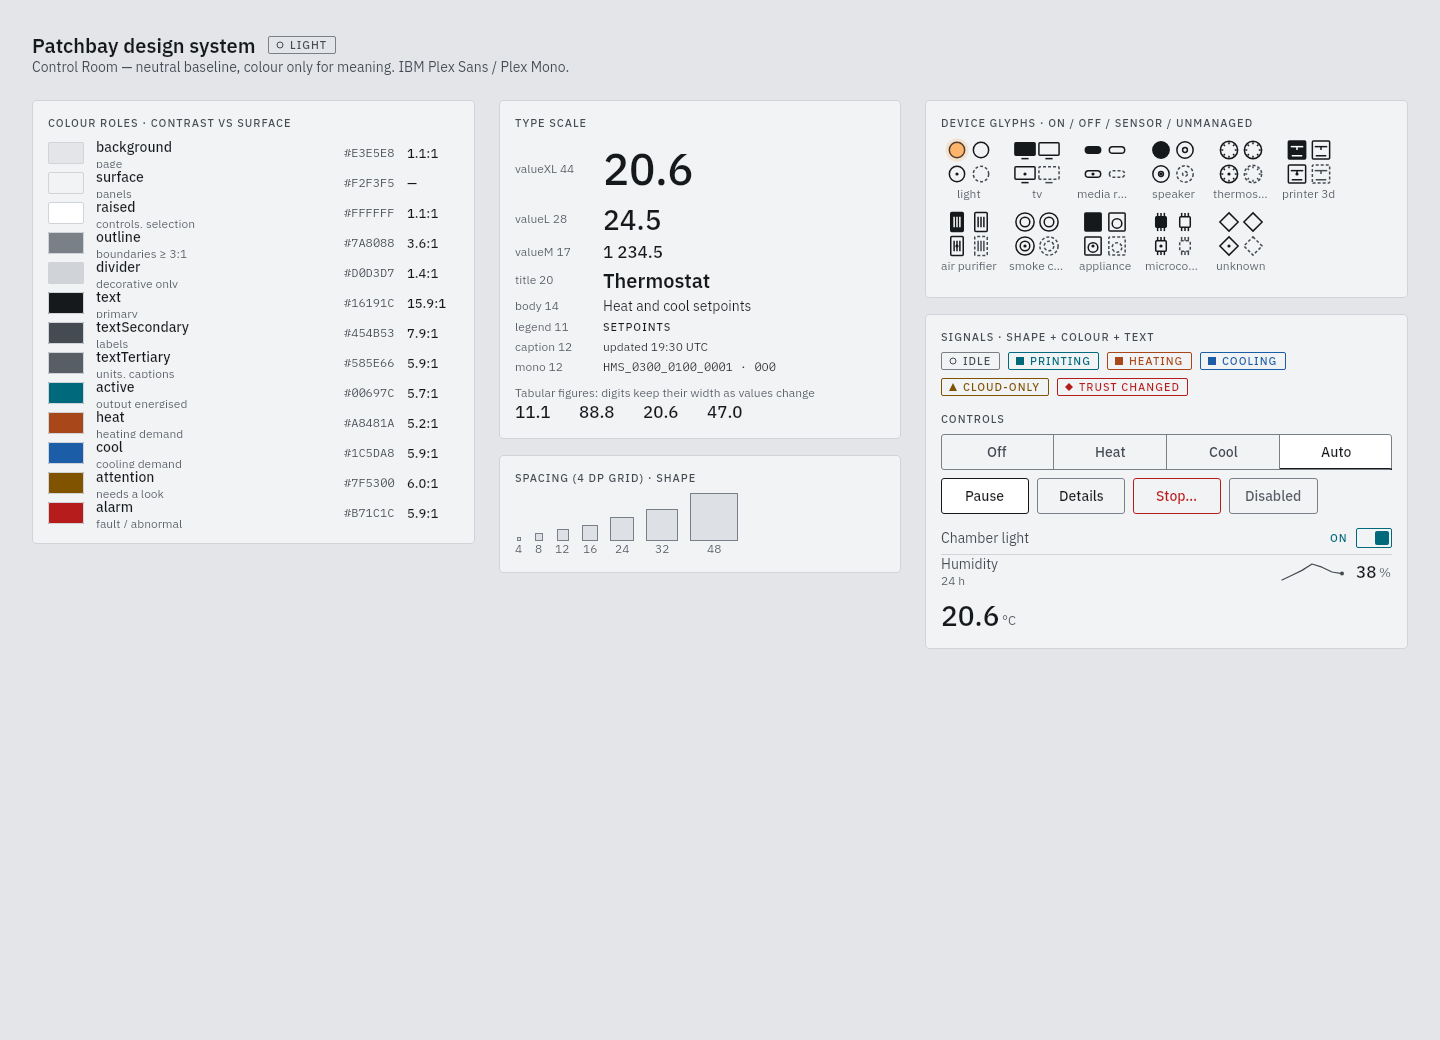
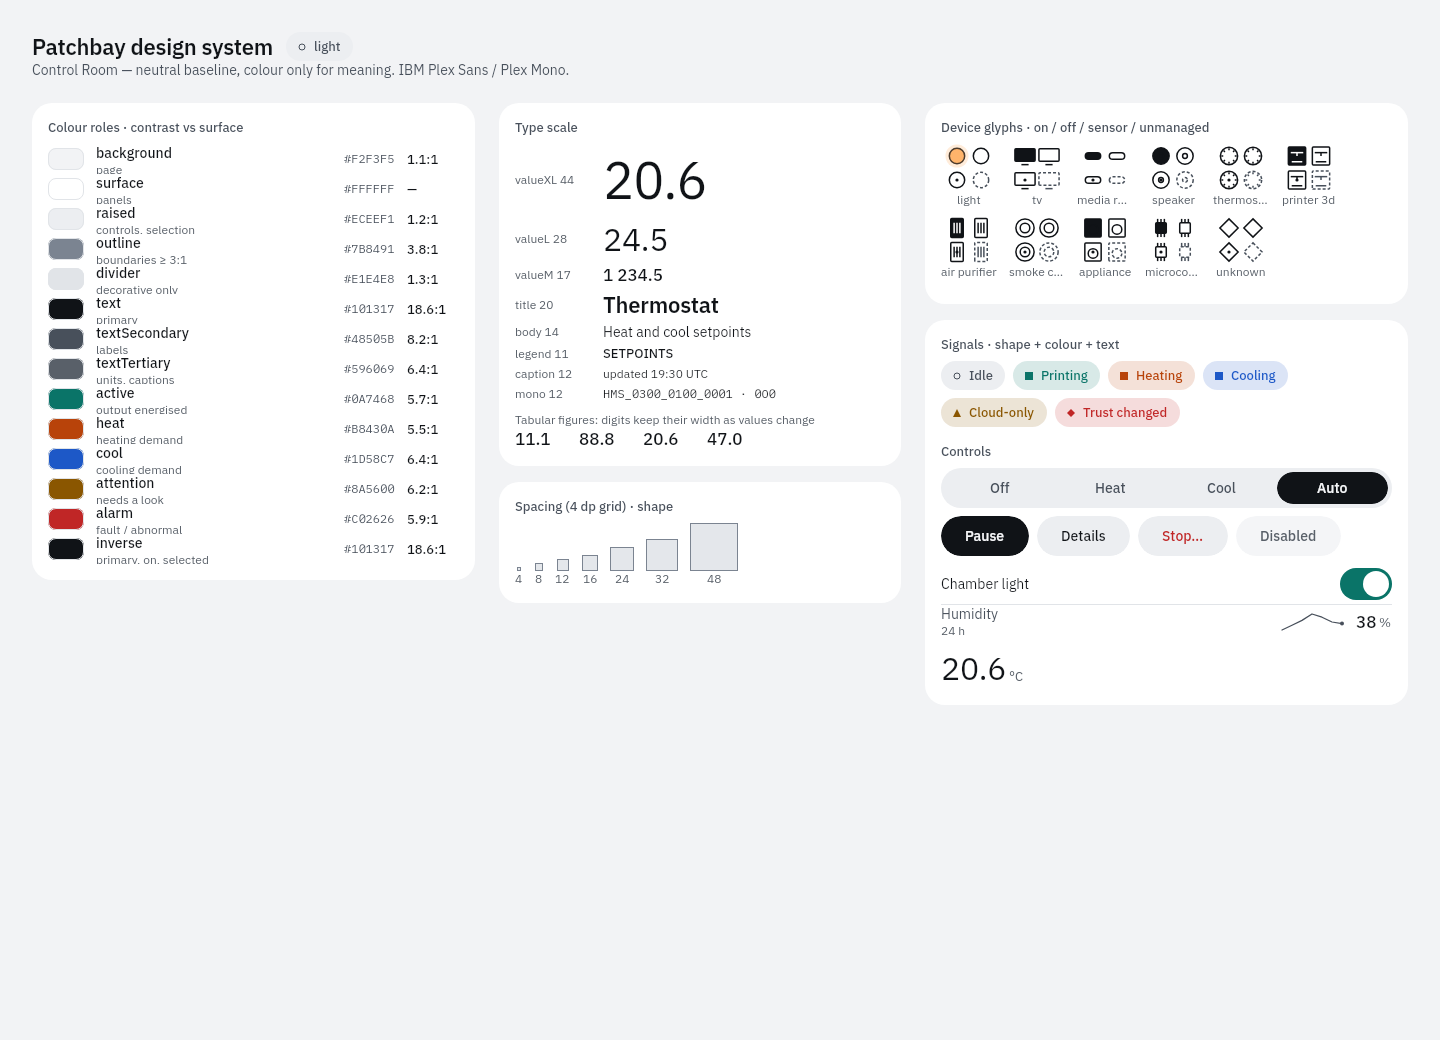
docs(design): record screenshot goldens for the v2 look (29 renders)
Claude-Session: https://claude.ai/code/session_01VKgrBEm7ZaxNZiCGqfgE4v

Changed region(s): [[0.0, 0.0308, 0.625, 0.5846], [0.625, 0.0923, 1.0, 0.6769], [0.8125, 0.4923, 0.8438, 0.5231]]

diff --git a/docs/design/screens/README.md b/docs/design/screens/README.md
@@ -2,7 +2,7 @@
 
 These PNGs are rendered by `ui/src/desktopTest/.../ScreenshotTest.kt` from the deterministic demo home.
 
-**Recorded 2026-11-06** from the CI render of commit `84d96b3` (25 PNGs: light, dark and night, phone and desktop). The
+**Recorded 2026-11-06** from the CI render of commit `81de125` (29 PNGs: light, dark and night, phone and desktop, including the live tile screens), after the visual redesign (ADR 0009). The
 `:ui:desktopTest` run in CI compares every render with these and fails on drift (ADR 0006).
 
 When you change the UI on purpose, re-record and review the images before committing them. In CI, run the
